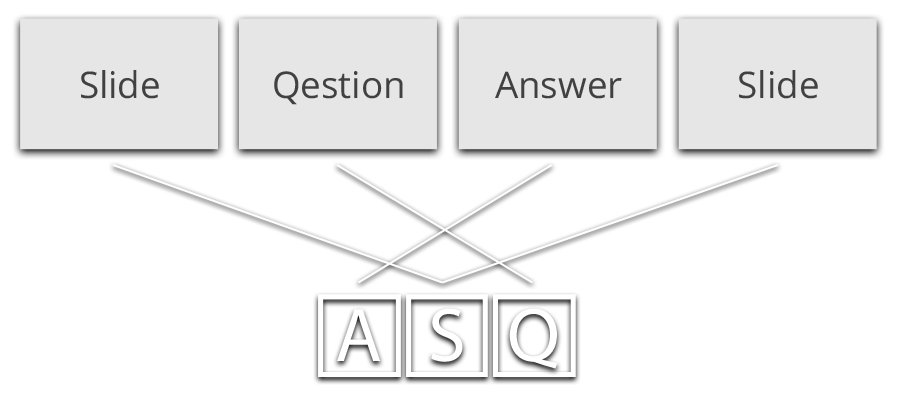
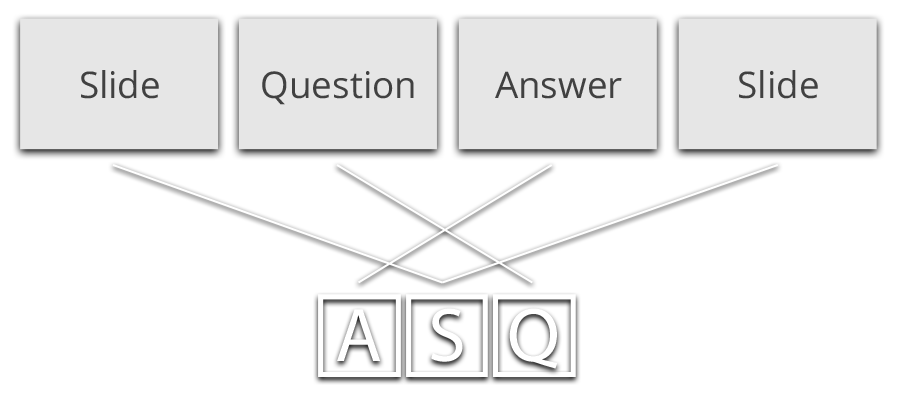
Typo in presentation

Changed region(s): [[0.28, 0.1787, 0.4667, 0.268]]

diff --git a/statistics.html b/statistics.html
@@ -1,0 +1,144 @@
+<!DOCTYPE html>
+<html>
+	<head>
+		<title>ASQ - What is ASQ</title>
+		<!-- Bootstrap -->
+		<link href="css/bootstrap.min.css" rel="stylesheet" media="screen">
+		<link href="css/style.css" rel="stylesheet" media="screen">
+		<link href="dist/jquery.jqplot.min.css" rel="stylesheet" media="screen">
+		<style type="text/css">html{height: 100%}</style>
+	</head>
+	<body class="dark-bg">
+		
+		<div id="top-bg">
+			<div class="container">
+				<div class="row">
+					<div class="span8" id="menu">
+						<ul>
+							<li><a>All Presentations</a></li>
+							<li><a>Settings</a></li>
+							<li>|</li>
+							<li><a>Welcome, Max!</a></li>
+						</ul>
+					</div>	
+									
+					<img class="pull-right" src="img/logo-small.png" />
+					
+		  		</div>
+			</div>
+		</div>
+		
+		<div class="container statistics">
+
+			<p>&nbsp;</p>
+			
+			<div class="row presentation-group" >
+				<div class="span12  head">
+					<h2 class="pull-left">What is ASQ</h2>
+					<a class="pull-right statistics"><i class="icon-trash icon-white"> </i> Delete Slideshow </a>
+					<a class="pull-right statistics"><i class="icon-signal icon-white"> </i> Show Statistics </a>
+				</div>	
+			</div>
+			
+			<div class="row">
+				<div class="span2">
+					<p><b>Date:</b></p>
+					<p><b>Number of students:</b></p>
+					<p><b>Participating students:</b></p>
+				</div>
+				<div class="span10">
+					<p>21.10.2012</p>
+					<p>16</p>
+					<p>14</p>
+				</div>
+			</div>
+			<br />
+		
+			<div class="accordion" id="accordion2">
+			  <div class="accordion-group">
+			    <div class="accordion-heading">
+			      <a class="accordion-toggle" data-toggle="collapse" data-parent="#accordion2" href="#collapseOne">
+			        Question 1: What does the name "ASQ" mean?
+			      </a>
+			    </div>
+			    <div id="collapseOne" class="accordion-body collapse in">
+			      <div class="accordion-inner">
+			       	<div id="chart1"></div>
+			      </div>
+			    </div>
+			  </div>
+			  <div class="accordion-group">
+			    <div class="accordion-heading">
+			      <a class="accordion-toggle" data-toggle="collapse" data-parent="#accordion2" href="#collapseTwo">
+			        Question 2: Who is the TA of the ASQ-Team?
+			      </a>
+			    </div>
+			    <div id="collapseTwo" class="accordion-body collapse">
+			      <div class="accordion-inner">
+			        Anim pariatur cliche...
+			      </div>
+			    </div>
+			  </div>
+			</div>
+			
+			
+		</div>
+
+		<script src="http://code.jquery.com/jquery-latest.js"></script>
+		<script src="js/bootstrap.min.js"></script>
+		
+		<script type="text/javascript" src="dist/plugins/jqplot.barRenderer.min.js"></script>
+		<script type="text/javascript" src="dist/plugins/jqplot.categoryAxisRenderer.min.js"></script>
+		<script type="text/javascript" src="dist/plugins/jqplot.pointLabels.min.js"></script>
+		<script type="text/javascript" src="dist/jquery.jqplot.min.js"></script>
+		<script>
+			$(document).ready(function(){
+		    var s1 = [200, 600, 700, 1000];
+		    var s2 = [460, -210, 690, 820];
+		    var s3 = [-260, -440, 320, 200];
+		    // Can specify a custom tick Array.
+		    // Ticks should match up one for each y value (category) in the series.
+		    var ticks = ['May', 'June', 'July', 'August'];
+		     
+		    var plot1 = $.jqplot('chart1', [s1, s2, s3], {
+		        // The "seriesDefaults" option is an options object that will
+		        // be applied to all series in the chart.
+		        seriesDefaults:{
+		            renderer:$.jqplot.BarRenderer,
+		            rendererOptions: {fillToZero: true}
+		        },
+		        // Custom labels for the series are specified with the "label"
+		        // option on the series option.  Here a series option object
+		        // is specified for each series.
+		        series:[
+		            {label:'Hotel'},
+		            {label:'Event Regristration'},
+		            {label:'Airfare'}
+		        ],
+		        // Show the legend and put it outside the grid, but inside the
+		        // plot container, shrinking the grid to accomodate the legend.
+		        // A value of "outside" would not shrink the grid and allow
+		        // the legend to overflow the container.
+		        legend: {
+		            show: true,
+		            placement: 'outsideGrid'
+		        },
+		        axes: {
+		            // Use a category axis on the x axis and use our custom ticks.
+		            xaxis: {
+		                renderer: $.jqplot.CategoryAxisRenderer,
+		                ticks: ticks
+		            },
+		            // Pad the y axis just a little so bars can get close to, but
+		            // not touch, the grid boundaries.  1.2 is the default padding.
+		            yaxis: {
+		                pad: 1.05,
+		                tickOptions: {formatString: '$%d'}
+		            }
+		        }
+		    });
+		});
+		
+		</script>
+	</body>
+</html>

diff --git a/mypresentations.html b/mypresentations.html
@@ -41,6 +41,19 @@
 					
 				<div class="span3 presentation-thumb">
 					<div class="info">
+						<h4>What is ASQ</h4>
+						<p>21.10.2012</p>		
+					</div>
+
+					<div class="buttons">
+						<a href="Presentation1/index.html" class="btn btn-primary"><i class="icon-play icon-white"> </i> Start Presentation</a>
+						<a href="statistics.html" class="btn btn-info"><i class="icon-signal icon-white"> </i> Show Statistics</a>
+						<a href="#" class="btn btn-success"><i class="icon-pencil icon-white"> </i> Edit Presentation</a>
+					</div>
+				</div>
+				
+				<div class="span3 presentation-thumb">
+					<div class="info">
 						<h4>Here comes a title</h4>
 						<p>21.10.2012</p>		
 					</div>
@@ -51,31 +64,57 @@
 						<a href="#" class="btn btn-success"><i class="icon-pencil icon-white"> </i> Edit Presentation</a>
 					</div>
 				</div>
-				
-					<div class="span3 presentation-thumb">
-					<h4>Here comes another title</h4>
-					<p>21.10.2012</p>
+					
+				<div class="span3 presentation-thumb">
+					<div class="info">
+						<h4>Here comes a title</h4>
+						<p>21.10.2012</p>		
+					</div>
+
+					<div class="buttons">
+						<a href="#" class="btn btn-primary"><i class="icon-play icon-white"> </i> Start Presentation</a>
+						<a href="#" class="btn btn-info"><i class="icon-signal icon-white"> </i> Show Statistics</a>
+						<a href="#" class="btn btn-success"><i class="icon-pencil icon-white"> </i> Edit Presentation</a>
+					</div>
 				</div>
 					
 				<div class="span3 presentation-thumb">
-					<h4>Here comes a great title</h4>
-					<p>21.10.2012</p>
+					<div class="info">
+						<h4>Here comes a title</h4>
+						<p>21.10.2012</p>		
+					</div>
+
+					<div class="buttons">
+						<a href="#" class="btn btn-primary"><i class="icon-play icon-white"> </i> Start Presentation</a>
+						<a href="#" class="btn btn-info"><i class="icon-signal icon-white"> </i> Show Statistics</a>
+						<a href="#" class="btn btn-success"><i class="icon-pencil icon-white"> </i> Edit Presentation</a>
+					</div>
 				</div>
 					
 				<div class="span3 presentation-thumb">
-					<h4>Here comes a title</h4>
-					<p>21.10.2012</p>
+					<div class="info">
+						<h4>Here comes a title</h4>
+						<p>21.10.2012</p>		
+					</div>
+
+					<div class="buttons">
+						<a href="#" class="btn btn-primary"><i class="icon-play icon-white"> </i> Start Presentation</a>
+						<a href="#" class="btn btn-info"><i class="icon-signal icon-white"> </i> Show Statistics</a>
+						<a href="#" class="btn btn-success"><i class="icon-pencil icon-white"> </i> Edit Presentation</a>
+					</div>
 				</div>
 					
 				<div class="span3 presentation-thumb">
-					<h4>Here comes a title</h4>
-					<p>21.10.2012</p>
-				</div>
-					
-				<div class="span3 presentation-thumb-add">
-					<h4>+</h4>
-					<p>&nbsp;</p>
-					<p><i>Add presentation</i></p>
+					<div class="info">
+						<h4>Here comes a title</h4>
+						<p>21.10.2012</p>		
+					</div>
+
+					<div class="buttons">
+						<a href="#" class="btn btn-primary"><i class="icon-play icon-white"> </i> Start Presentation</a>
+						<a href="#" class="btn btn-info"><i class="icon-signal icon-white"> </i> Show Statistics</a>
+						<a href="#" class="btn btn-success"><i class="icon-pencil icon-white"> </i> Edit Presentation</a>
+					</div>
 				</div>
 			
 			</div>

diff --git a/Presentation1/index.html b/Presentation1/index.html
@@ -59,7 +59,7 @@
 	   
 	   	<div id="2" class="step"  data-x="0" data-y="0">
 	    	<h1>What is ASQ?</h1>
-	    	<p>This web app allows to broadcast a slideshow synchronously to multiple clients with a classroom clicker in the form of questions and answers which can be added in between slides.</p>   
+	    	<p>This web app allows to broadcast a slideshow synchronously to multiple clients. <br /> ASQ allows the lecturer to give questions to the students and recive their answers in real-time.</p>   
 		</div>
 		
 	   	<div id="2b" class="step"  data-x="1024" data-y="0"> 

diff --git a/index.html b/index.html
@@ -13,7 +13,7 @@
 				
 				<div class="row">
 					<div id="login" class="span2 pull-right">
-						<i class="icon-user icon-white"></i><span>Login</span>
+						<a href="login.html"><i class="icon-user icon-white"></i><span>Login</span></a>
 					</div>	
 				</div>
 				

diff --git a/Presentation1/css/impress-demo.css b/Presentation1/css/impress-demo.css
@@ -85,7 +85,7 @@ body {
     font-family: 'PT Sans', sans-serif;
     min-height: 740px;
     
-   	background-image: url(../../img/pattern5.jpg);
+   	background-image: url(../img/pattern5.jpg);
 	background-repeat: repeat;
     
     /*ackground: rgb(215, 215, 215);

diff --git a/login.html b/login.html
@@ -29,7 +29,8 @@
 						</div>
 					</div>
 					
-					<button type="submit" class="btn">Sign in</button>
+					<a href="mypresentations.html" class="btn">Log in</a>
+					<!---<button type="submit" class="btn">Sign in</button> /--->
 					</form>
 				</div>	
 		

diff --git a/css/style.css b/css/style.css
@@ -193,3 +193,6 @@ body{
 	box-shadow:  0 1px 0 #333;
 	margin-bottom: 20px;
 }
+.statistics p{
+	color: #FFF;
+}
